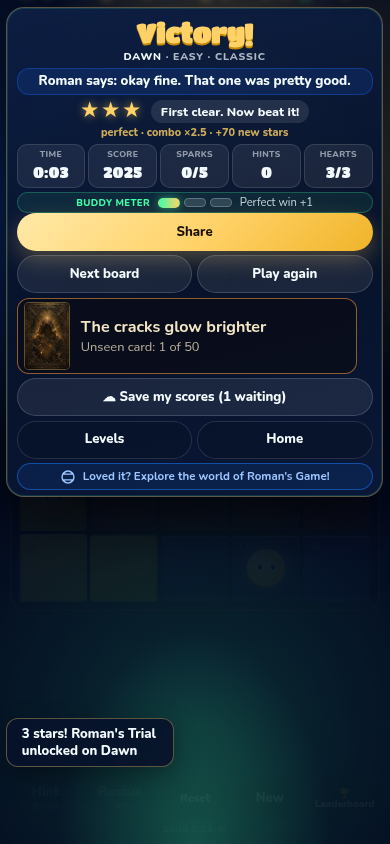
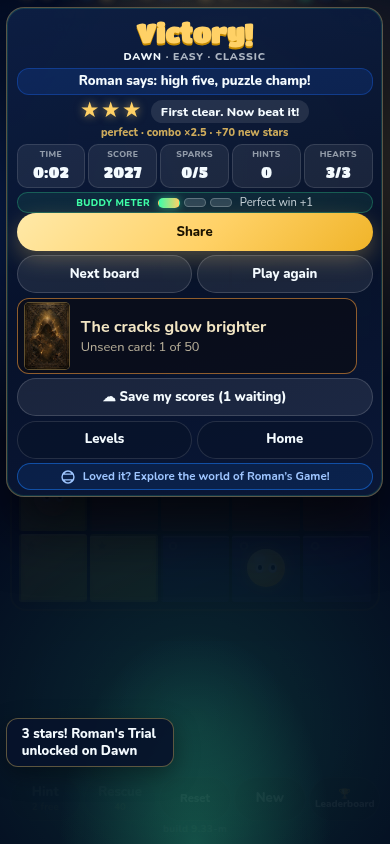
Show the name and save asks only on Home, and the Unseen line only once.
Phone play drops his caption. PC keeps the bubble and not a second copy. Build stays 9.33-m.

Changed region(s): [[0.0923, 0.0924, 0.8923, 0.1232], [0.2769, 0.1848, 0.3692, 0.2156], [0.1538, 0.1848, 0.1846, 0.2156]]

diff --git a/src/App.tsx b/src/App.tsx
@@ -555,7 +555,7 @@ export default function App() {
   const saveNonce = useRef(0)
   /** Phone "Save your scores?" waits until Home, so it never covers Victory or a running board. */
   const saveAskAfterLeave = useRef(false)
-  /** Phone "What should we call you?" waits until Home, same as the save sheet. */
+  /** "What should we call you?" waits until Home. Never during play or on Victory. */
   const nameAskAfterHome = useRef(false)
   const [defeated, setDefeated] = useState(false)
   /** Set the moment a board is won or lost (before any state update lands), cleared for the next
@@ -1152,10 +1152,8 @@ export default function App() {
       if (cue) {
         voiceCueN.current += 1
         setVoiceCue({ clip: cue.clip, text: cue.text, n: voiceCueN.current })
-        // Home and desktop play already show his bubble, so the caption must not repeat the line.
-        const unseen = isUnseenClip(cue.clip)
-        const bubbleOwnsLine =
-          unseen && (screenRef.current === 'home' || (deviceRef.current === 'desktop' && screenRef.current === 'play'))
+        // Home and play already have his bubble (or just his voice). The caption does not repeat the line.
+        const bubbleOwnsLine = isUnseenClip(cue.clip) && (screenRef.current === 'home' || screenRef.current === 'play')
         if (cue.text && !bubbleOwnsLine) {
           voiceToast.current = true
           window.clearTimeout(toastTimer.current)
@@ -1272,9 +1270,9 @@ export default function App() {
     })
   }
 
-  /** Ask for a name once; `then` runs after Save or Skip */
+  /** Ask for a name once, and only on Home. Never during play or on the Victory card. */
   function askNameOnce(then?: () => void): boolean {
-    if (settings.namePrompted || playerName) return false
+    if (settings.namePrompted || playerName || screen !== 'home') return false
     setNameDraft('')
     setNamePrompt({ then })
     return true
@@ -1288,10 +1286,10 @@ export default function App() {
     if (then) window.setTimeout(then, 0)
   }
 
-  // Phone: the name prompt and the save sheet open only on Home. Never over the Victory card, and never on a board whose clock is running.
+  // Name prompt and save sheet open only on Home. Never during play, on Victory, or between boards.
   useEffect(() => {
-    if (screen !== 'home' || device !== 'phone') return
-    const pendingSave = saveAskAfterLeave.current
+    if (screen !== 'home') return
+    const pendingSave = device === 'phone' && saveAskAfterLeave.current
     const pendingName = nameAskAfterHome.current
     if (!pendingSave && !pendingName) return
     saveAskAfterLeave.current = false
@@ -1301,7 +1299,6 @@ export default function App() {
     }
     if (pendingName && askNameOnce(pendingSave ? openSave : undefined)) return
     openSave()
-    // askNameOnce reads the latest name; this runs only when the screen becomes Home.
     // eslint-disable-next-line react-hooks/exhaustive-deps
   }, [screen, device])
 
@@ -2134,18 +2131,8 @@ export default function App() {
         })
       }
       if (shellRef.current) burstConfetti(shellRef.current)
-      // First finished board: ask once what to call the player on share cards.
-      // Phone waits until Home so the prompt never covers Next board or Home.
-      if (!settings.namePrompted && !playerName) {
-        if (device === 'phone') nameAskAfterHome.current = true
-        else {
-          window.setTimeout(() => {
-            // Only over the Victory card itself — never on top of Buddy Hunt or the prize wheel
-            if (!document.querySelector('.win-screen') || document.querySelector('.buddy-hunt, .prize-overlay')) return
-            askNameOnce()
-          }, 2200)
-        }
-      }
+      // First finished board: ask once, later, on Home. Never over the Victory card.
+      if (!settings.namePrompted && !playerName) nameAskAfterHome.current = true
     }
   }
 
@@ -3053,7 +3040,7 @@ export default function App() {
       {/* On a live board the toast text shows in the play caption slot instead (never over the board) */}
       {toast && (screen !== 'play' || celebrate || defeated) && <div className="toast">{toast}</div>}
 
-      {namePrompt &&
+      {namePrompt && screen === 'home' &&
         createPortal(
           <div className="start-sheet name-prompt" role="dialog" aria-modal="true" aria-label="Your name">
             <div className="start-sheet-scrim" />
@@ -3463,9 +3450,9 @@ export default function App() {
               board. Always takes its space (never reflows the board) and never overlaps it. */}
           {(() => {
             // Once the board is won or lost the global toast carries notices; don't echo them here too.
-            // On PC his bubble already shows the line, so the caption must not repeat it.
+            // His line lives in the bubble (PC) or only in the voice (phone play). The caption never repeats it.
             const liveToast = celebrate || defeated ? '' : toast
-            const captionToast = device === 'desktop' && unseenSpeaking && liveToast === unseenSpeaking.text ? '' : liveToast
+            const captionToast = unseenSpeaking && liveToast === unseenSpeaking.text ? '' : liveToast
             const captionText = captionToast || hintText
             return (
               <p className={`play-caption ${captionText ? '' : 'is-empty'} ${captionToast ? 'is-voice' : ''}`} aria-live="polite">

diff --git a/src/App.css b/src/App.css
@@ -6506,20 +6506,9 @@ html[data-device='tablet']:not([data-layout='wide']) .hud-pet { top: calc(max(0.
     padding: 0.4rem 0.55rem 0.45rem;
   }
 }
-/* Phone play: no corner figure. His line is a reserved two-line caption under the timer. */
+/* Phone play: no figure and no caption line. His voice is enough; the bubble returns under the Victory card. */
 html[data-device='phone'] .shell-play:not(.shell-celebrate) .unseen-pop {
   display: none;
-}
-html[data-device='phone'] .shell-play:not(.shell-celebrate) .play-caption {
-  height: 2.6em;
-  min-height: 2.6em;
-  max-height: 2.6em;
-  display: -webkit-box;
-  white-space: normal;
-  text-overflow: clip;
-  overflow: hidden;
-  -webkit-line-clamp: 2;
-  -webkit-box-orient: vertical;
 }
 /* Phone Victory: figure and bubble live in the pocket under the card (see --win-pad-b). */
 html[data-device='phone'] .shell-play.shell-celebrate .unseen-pop {
